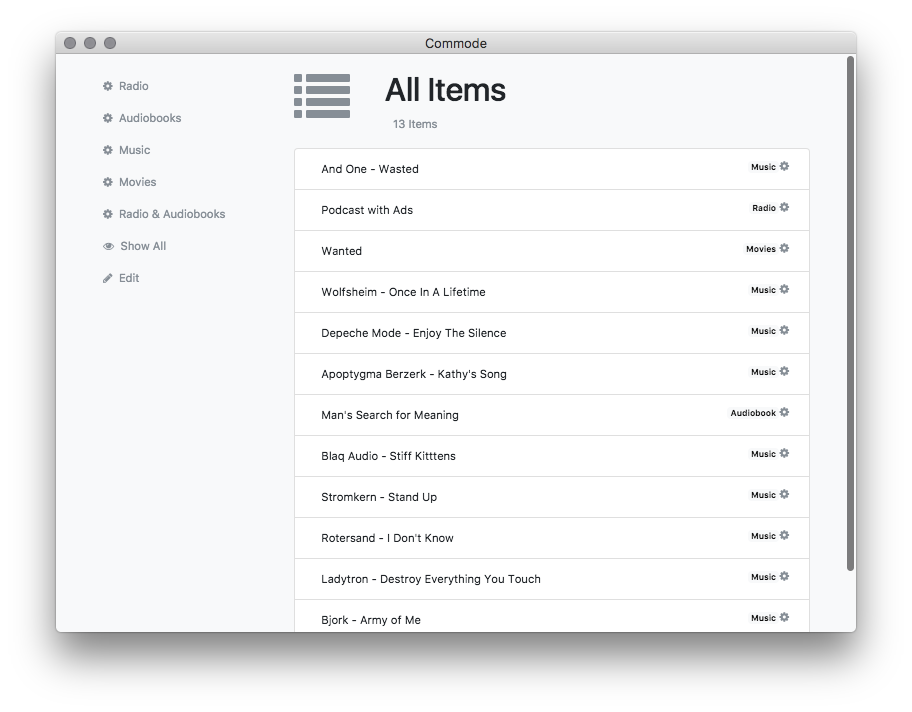
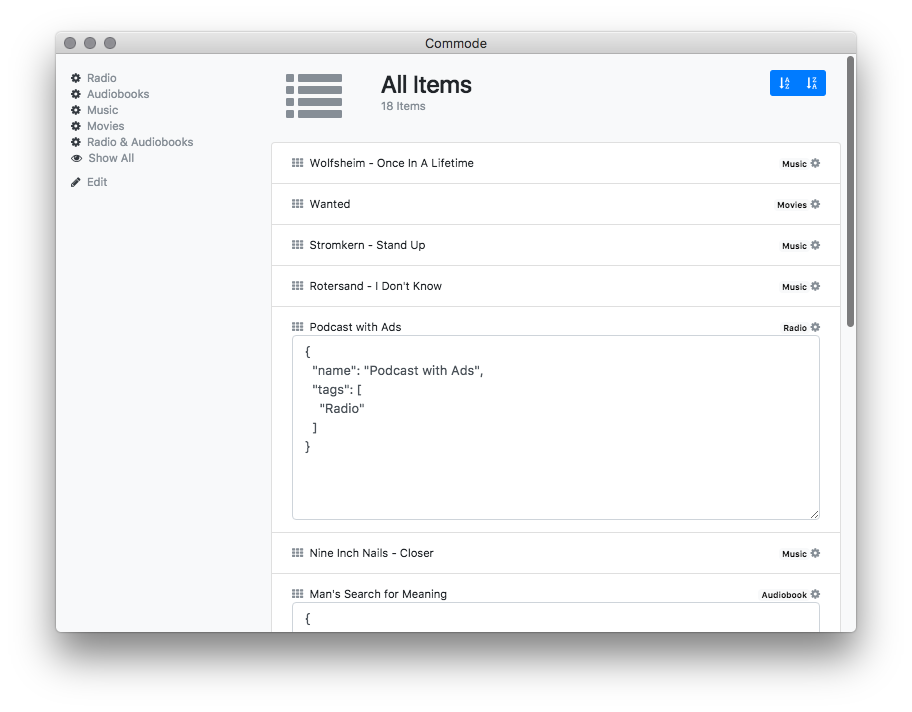
Typography Adjustments

diff --git a/index.html b/index.html
@@ -31,16 +31,16 @@
 
     <div class="container-fluid">
 
-      <div class="p-3 bg-light">
+      <div class="pt-3 bg-light">
         <div class="row">
           <div class="col-md-3 pb-3">
 
-            <ul class="nav flex-column">
-              <li v-for="item in computedFilters" class="nav-item" v-on:click="select(item)"><a class="nav-link text-muted" href="#"><i class="fa fa-cog text-muted"></i>&nbsp; {{ item.name }}</a></li>
-              <li class="nav-item" v-on:click="deselect"><a class="nav-link text-muted" href="#"><i class="fa fa-eye text-muted"></i>&nbsp; Show All</a></li>
+            <ul class="nav flex-column pb-2">
+              <li v-for="item in computedFilters" class="nav-item" v-on:click="select(item)"><a class="nav-link text-muted p-0" href="#"><i class="fa fa-cog text-dark"></i>&nbsp; {{ item.name }}</a></li>
+              <li class="nav-item" v-on:click="deselect"><a class="nav-link text-muted p-0" href="#"><i class="fa fa-eye text-dark"></i>&nbsp; Show All</a></li>
             </ul>
 
-            <div class="nav-item" v-on:click="filtersModal"><a class="nav-link text-muted" href="#"><i class="fa fa-pencil text-muted"></i>&nbsp; Edit</a></div>
+            <div class="nav-item" v-on:click="filtersModal"><a class="nav-link text-muted p-0" href="#"><i class="fa fa-pencil text-dark"></i>&nbsp; Edit</a></div>
 
           </div>
 
@@ -57,45 +57,43 @@
                 <div class="col-2">
                   <i class="fa fa-list fa-5x text-muted"></i>
                 </div>
-                <div class="col-10">
-                  <div class="h2">{{title}}</div>
-                  <div class="text-muted pl-2 d-inline-block">{{computedDatabase.length}} Item{{computedDatabase.length==1?'':'s'}}</div>
-                </div>
-              </div>
 
-              <div class="row">
-                <div class="col-12">
-                  <div class="btn-group btn-group-sm float-right" role="group" aria-label="Basic example">
-                    <button v-for="sorter in sorters" v-on:click="sort(sorter)" type="button" class="btn btn-light"><i :class="'fa fa-'+sorter.icon"></i></button>
+                <div class="col-8">
+                  <div class="h4 mb-0">{{title}}</div>
+                  <div class="text-muted pt-0 d-inline-block">{{computedDatabase.length}} Item{{computedDatabase.length==1?'':'s'}}</div>
+                </div>
+
+                <div class="col-2">
+                  <div class="btn-group btn-group-sm float-right" role="group" aria-label="Basic example" >
+                    <button v-for="sorter in sorters" v-on:click="sort(sorter)" type="button" class="btn btn-primary" style="font-size: .7rem;"><i :class="'fa fa-'+sorter.icon"></i></button>
                   </div>
                 </div>
+
               </div>
+
 
             </div>
 
 
             <!-- -->
             <div class="container-fluid">
-              <div class="row">
-                <div class="col-12">
+              <div class="row pb-3">
+                <div class="col-12 p-0">
 
 
                   <ul class="list-group">
 
-                    <li v-for="item in computedDatabase" class="list-group-item"><i class="fa fa-foo text-muted"></i>&nbsp; {{ item.name }}
+                    <li v-for="item in computedDatabase" class="list-group-item"><i class="fa fa-th text-muted"></i>&nbsp; {{ item.name }}
+
                       <div v-on:click="toggle(item)" class="float-right"><i class="fa fa-cog text-muted"></i></div>
                       <div class="float-right"> <span v-for="tag in item.tags" class="badge badge-light">{{tag}}</span> </div>
 
 
                       <form v-show="opened[item.name] === true">
                         <div class="row">
-
                           <div class="col">
-
                             <textarea class="form-control" style="font-size: .8rem;" id="exampleFormControlTextarea1" rows="9">{{ JSON.stringify(item, null, '  ') }}</textarea>
-
                           </div>
-
                         </div>
                       </form>
 
